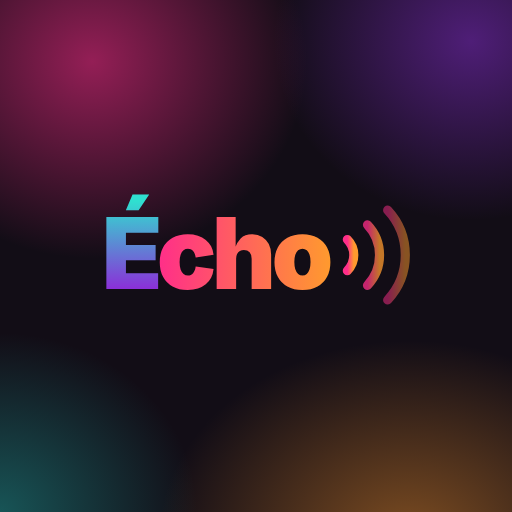
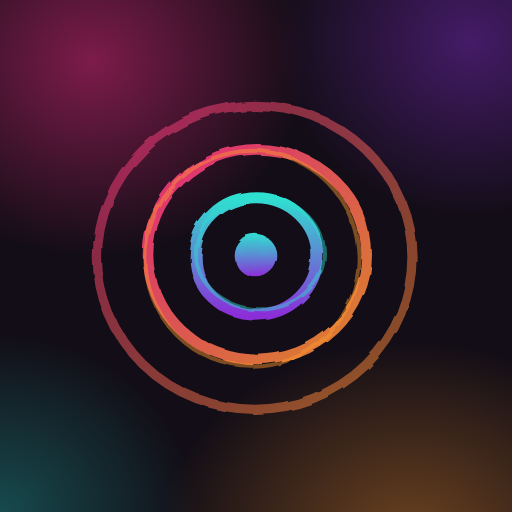
Icône : ronds dans l'eau dessinés à la main
Claude-Session: https://claude.ai/code/session_01FoSFZf4kRQzfYCD7htRPV1

Changed region(s): [[0.1562, 0.1875, 0.8125, 0.8125]]

diff --git a/index.html b/index.html
@@ -7,8 +7,8 @@
   <meta name="description" content="Tes radios et tes podcasts préférés, en un clic.">
   <meta name="theme-color" content="#0F0B10">
   <link rel="manifest" href="manifest.webmanifest">
-  <link rel="icon" href="icons/icone-192.png?v=2">
-  <link rel="apple-touch-icon" href="icons/apple-touch-icon.png?v=2">
+  <link rel="icon" href="icons/icone-192.png?v=3">
+  <link rel="apple-touch-icon" href="icons/apple-touch-icon.png?v=3">
   <link rel="preload" href="polices/inter-latin.woff2" as="font" type="font/woff2" crossorigin>
   <link rel="stylesheet" href="style.css?v=42">
   <script src="https://cdn.jsdelivr.net/npm/hls.js@1.5.17/dist/hls.min.js" defer></script>

diff --git a/sw.js b/sw.js
@@ -1,5 +1,5 @@
 // Garde l'interface de l'appli en cache pour qu'elle s'ouvre instantanément (les flux restent en direct).
-const CACHE = "echo-v38";
+const CACHE = "echo-v39";
 const FICHIERS = [
   "./", "index.html", "style.css", "app.js", "polices/inter-latin.woff2", "manifest.webmanifest",
   "icons/icone-192.png", "icons/icone-512.png",
